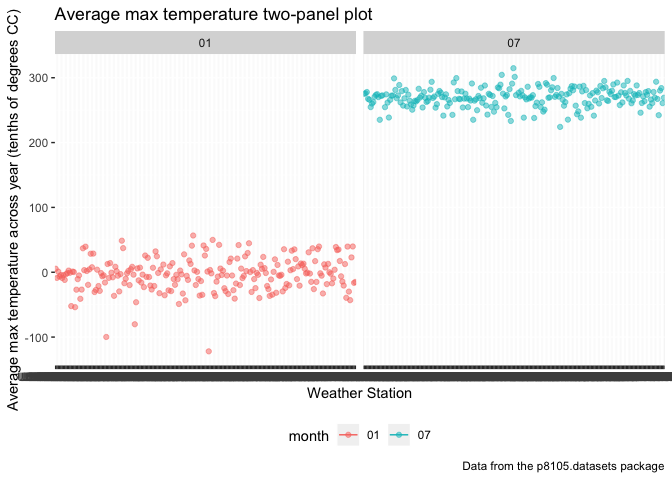
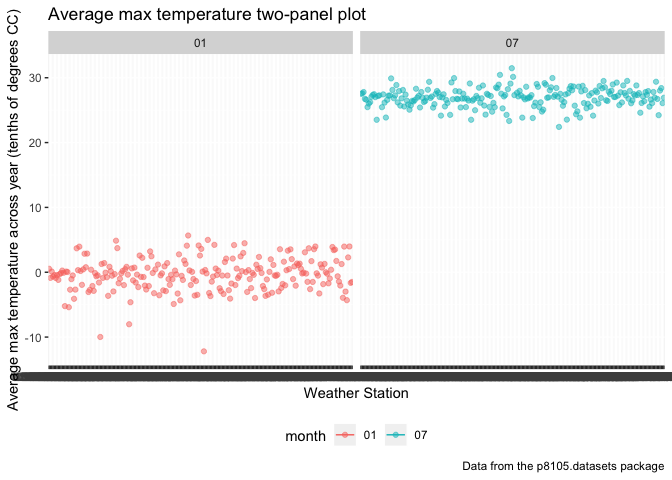
revise again for solutions problem 3

diff --git a/p8105_hw3_xy2397.md b/p8105_hw3_xy2397.md
@@ -312,31 +312,14 @@ Problem 3
 
 ``` r
 data("ny_noaa")
-ny_noaa
 ```
 
-    ## # A tibble: 2,595,176 x 7
-    ##    id          date        prcp  snow  snwd tmax  tmin 
-    ##    <chr>       <date>     <int> <int> <int> <chr> <chr>
-    ##  1 US1NYAB0001 2007-11-01    NA    NA    NA <NA>  <NA> 
-    ##  2 US1NYAB0001 2007-11-02    NA    NA    NA <NA>  <NA> 
-    ##  3 US1NYAB0001 2007-11-03    NA    NA    NA <NA>  <NA> 
-    ##  4 US1NYAB0001 2007-11-04    NA    NA    NA <NA>  <NA> 
-    ##  5 US1NYAB0001 2007-11-05    NA    NA    NA <NA>  <NA> 
-    ##  6 US1NYAB0001 2007-11-06    NA    NA    NA <NA>  <NA> 
-    ##  7 US1NYAB0001 2007-11-07    NA    NA    NA <NA>  <NA> 
-    ##  8 US1NYAB0001 2007-11-08    NA    NA    NA <NA>  <NA> 
-    ##  9 US1NYAB0001 2007-11-09    NA    NA    NA <NA>  <NA> 
-    ## 10 US1NYAB0001 2007-11-10    NA    NA    NA <NA>  <NA> 
-    ## # ... with 2,595,166 more rows
-
-The goal is to do some exploration of this dataset.
-
-To that end, write a short description of the dataset, noting the size and structure of the data, describing some key variables, and indicating the extent to which missing data is an issue.
+**Write a short description of the dataset**
 
 This dataset "ny\_noaa" provides some weather data, it contains records from 747 different weather stations for about datas from 10,957 obervational days. The size of the dataset is 2595176 rows x 7 columns. The key variables are id (weather station ID), date (date of observation), prcp (precipitation for tenths of mm), snow (snowfall for mm), snwd (snow depth for mm) and tmax and tmin (maximum and mimimum temperature for tenths of degrees C). At last, we calculate the proportion of missing value fro each vairable, we have 0.0561958 for prop, 0.146896 for snow, 0.2280331 for snwd, 0.4371025 for tmax and 0.4371264 for tmin.
 
 ``` r
+# count for the number of weather stations
 ny_noaa %>% 
   group_by(id) %>% 
   summarise(number = n())
@@ -358,6 +341,7 @@ ny_noaa %>%
     ## # ... with 737 more rows
 
 ``` r
+# count fot the number of observation days
 ny_noaa %>% 
   group_by(date) %>% 
   summarise(number = n()) 
@@ -379,6 +363,7 @@ ny_noaa %>%
     ## # ... with 10,947 more rows
 
 ``` r
+# count for the porportion of missing value for precipitation
 prcp_na =
   ny_noaa %>% 
   filter(is.na(prcp)) %>% 
@@ -390,6 +375,7 @@ prcp_prop
     ## [1] 0.0561958
 
 ``` r
+# count for the porportion of missing value for snowfall
 snow_na =
   ny_noaa %>% 
   filter(is.na(snow)) %>% 
@@ -401,6 +387,7 @@ snow_prop
     ## [1] 0.146896
 
 ``` r
+# count for the porportion of missing value for snow depth
 snwd_na =
   ny_noaa %>% 
   filter(is.na(snwd)) %>% 
@@ -412,6 +399,7 @@ snwd_prop
     ## [1] 0.2280331
 
 ``` r
+# count for the porportion of missing value for maximum temperature
 tmax_na =
   ny_noaa %>% 
   filter(is.na(tmax)) %>% 
@@ -423,6 +411,7 @@ tmax_prop
     ## [1] 0.4371025
 
 ``` r
+# count for the porportion of missing value for mimimum temperature
 tmin_na =
   ny_noaa %>% 
   filter(is.na(tmin)) %>% 
@@ -433,17 +422,26 @@ tmin_prop
 
     ## [1] 0.4371264
 
-Then, do or answer the following (commenting on the results of each):
+**Answering the questions using this dataset**
 
 • Do some data cleaning. Create separate variables for year, month, and day. Ensure observations for temperature, precipitation, and snowfall are given in reasonable units. For snowfall, what are the most commonly observed values? Why?
 
 ``` r
 noaa = 
   ny_noaa %>%
-  separate(date, into = c("year", "month", "day"), sep = "-")
+  # create separate variables for year, month, and day.
+  separate(date, into = c("year", "month", "day"), sep = "-") %>% 
+  
+  # make the observations for temperature and precipitation in reasonable units
+  mutate(tmax = as.numeric(tmax),
+         tmin = as.numeric(tmin)) %>% 
+  mutate(prcp = prcp/10,
+         tmax = tmax/10,
+         tmin = tmin/10) 
 ```
 
 ``` r
+# conut for the most commonly observed values for snowfall
 noaa %>%
   count(snow) %>% 
   top_n(5) 
@@ -466,11 +464,19 @@ So for snowfall, 0 is the most commonly observed value, since 0 has been observe
 
 ``` r
 noaa %>% 
+  
+  # filter the dataset for only January and July
   filter(month %in% c("01", "07")) %>% 
+  
+  # calculate the average max temperature in January and in July
   mutate(tmax = as.numeric(tmax)) %>% 
   group_by(id, month) %>% 
   summarize(average_tmax = mean(tmax, na.rm = TRUE)) %>% 
+  
+  # filter the NAs
   filter(!is.na(average_tmax)) %>% 
+  
+  # make a two-panel plot
   ggplot(aes(x = id, y = average_tmax, color = month)) +
   geom_point(alpha = 0.5) +
   geom_line() +
@@ -496,23 +502,27 @@ noaa %>%
 ``` r
 tmax_tmin =
   noaa %>% 
+  # filter the NAs
   filter(!is.na(tmax), !is.na(tmin)) %>% 
+  # make a plot shows tmax vs tmin for the full dataset
   ggplot(aes(x = tmax, y = tmin)) +
-  geom_hex(bins = 300) +
+  geom_hex(bins = 50) +
   labs(
     title = "Tmax vs Tmin",
     x = "Maximum temperature",
     y = "Minimum temperature",
     caption = "Data from the p8105.datasets package"
   ) +
-  scale_x_discrete(
-    limits = c(-250, 250)
-  ) +
+  
   theme(legend.position = "bottom")
 
 snowfall =
   noaa %>% 
+  
+  # filter the snowfall value from greater than 0 and less than 100
   filter(snow %in% 1:99) %>% 
+  
+  # make a plot shows the values of snowfall sepreated by year
   ggplot(aes(x = snow, fill = year)) +
   geom_histogram(alpha = 0.5) +
   labs(
@@ -526,10 +536,8 @@ snowfall =
 tmax_tmin + snowfall
 ```
 
-    ## Warning: Removed 1431533 rows containing non-finite values (stat_binhex).
-
     ## `stat_bin()` using `bins = 30`. Pick better value with `binwidth`.
 
 ![](p8105_hw3_xy2397_files/figure-markdown_github/unnamed-chunk-17-1.png)
 
-So when we deal with the
+So when we deal with the tmax vs tmin, we can find that tmax and tmin is around positive correlation, which means that when the maximize temperature increase, the minimize tmeperature of that day would also increase. And when we draw the histogram to see the distribution of sanowfalls value sepreated by year, we can find that the snowfall is decreasing by the year increases and the most commonly snowfall values is around 25mm.
